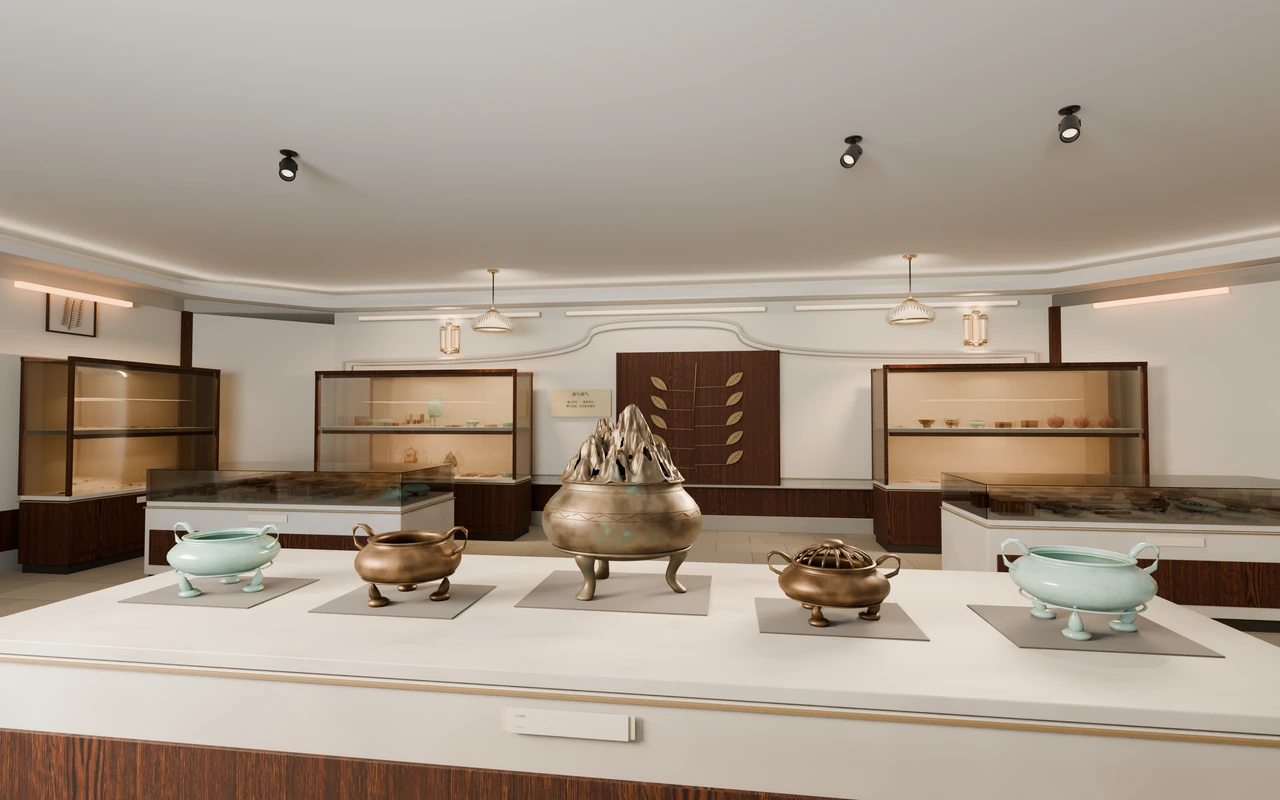
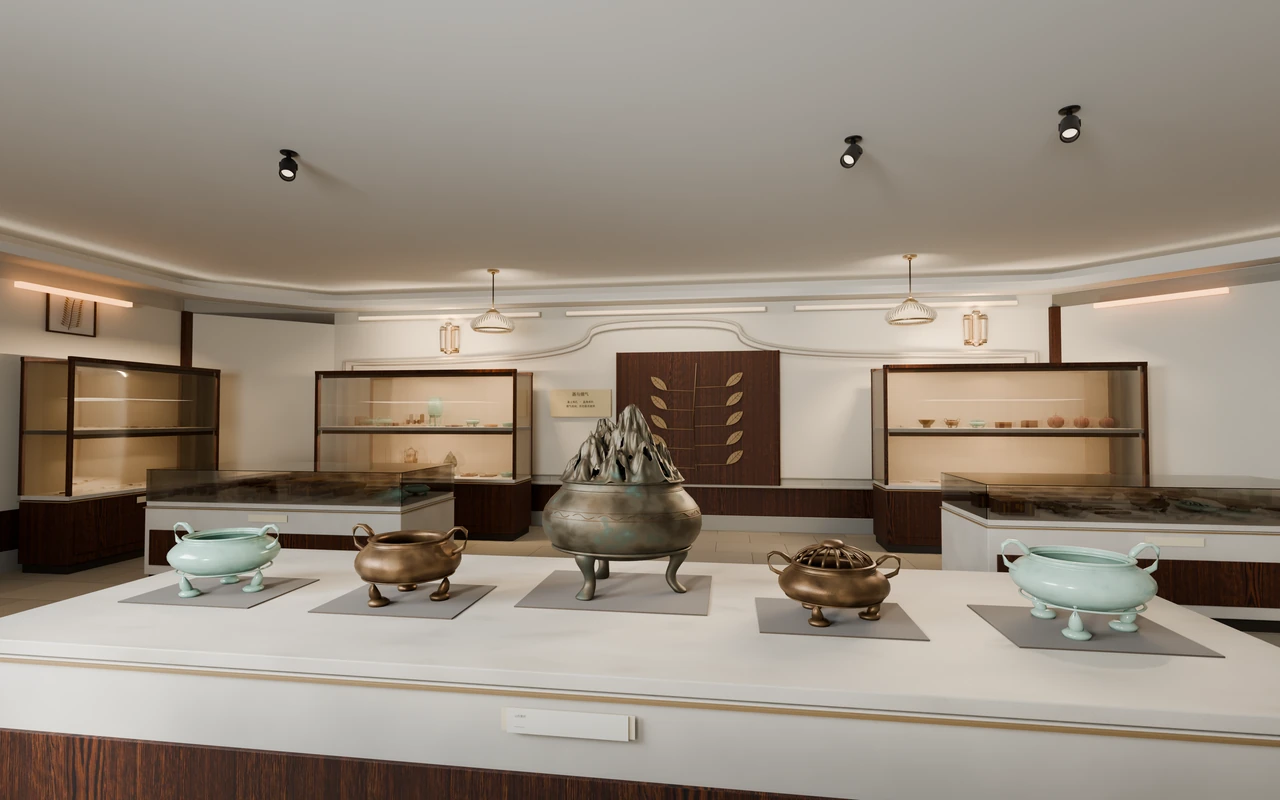
Publish afternoon courtyard lighting and incense seal workshop photography

diff --git a/interior/review.html b/interior/review.html
@@ -2,38 +2,34 @@
 <html lang="zh-CN">
 <head>
 <meta charset="utf-8"><meta name="viewport" content="width=device-width,initial-scale=1">
-<meta name="theme-color" content="#f5f1e9"><title>庭院天光与两厅吊灯 · 莞香入庭</title>
+<meta name="theme-color" content="#f5f1e9"><title>午后庭光与香篆手作 · 莞香入庭</title>
 <style>
 :root{color-scheme:light;--paper:#f5f1e9;--ink:#302c25;--muted:#625c51;--rule:#cec6b8;--accent:#513d2e;--serif:"Songti SC","SimSun","Noto Serif CJK SC",serif}
 *{box-sizing:border-box}body{margin:0;font:16px/1.5 "Microsoft YaHei","PingFang SC",system-ui,sans-serif;background:var(--paper);color:var(--ink)}a{color:inherit;text-underline-offset:.24em}a:focus-visible,button:focus-visible{outline:3px solid #986434;outline-offset:3px}header,main{width:min(1720px,100%);margin:auto;padding-inline:clamp(16px,3.8vw,70px)}header{display:flex;justify-content:space-between;gap:12px;align-items:center;padding-block:17px;border-bottom:1px solid var(--rule)}.brand{font:600 clamp(21px,2.3vw,28px)/1.2 var(--serif);letter-spacing:.12em}header a{font-size:14px}main{padding-bottom:50px}.heading{padding-block:clamp(24px,3vw,48px) 20px}.heading p,p{color:var(--muted);margin:7px 0 0;font-size:clamp(14px,1.1vw,17px)}h1,h2,h3{margin:0;line-height:1.25}h1{font:600 clamp(33px,3.5vw,58px)/1.2 var(--serif);letter-spacing:.04em}h2{font:600 clamp(23px,2.2vw,35px)/1.3 var(--serif)}h3{font-size:17px;font-weight:600}.room{padding:20px 0 32px;border-top:1px solid var(--rule)}.roomhead{display:flex;align-items:baseline;gap:17px;margin-bottom:14px}.roomhead p{margin:0}.pair{display:grid;grid-template-columns:1fr 1fr;gap:clamp(12px,1.3vw,24px)}figure{margin:0;min-width:0}.art{display:block;background:#e6dfd3;border-radius:2px;overflow:hidden}.art img{display:block;width:100%;height:auto;aspect-ratio:8/5}.caption{display:flex;justify-content:space-between;align-items:start;gap:12px;padding-top:11px}.caption p{font-size:14px}.switch{display:inline-flex;border:1px solid #aaa08f;border-radius:3px;white-space:nowrap;overflow:hidden;flex-shrink:0}.switch button{font:inherit;font-size:13px;color:var(--accent);padding:6px 10px;min-height:34px;background:transparent;border:0;cursor:pointer}.switch button[aria-pressed="true"]{background:#453e33;color:white}.lamp-zoom{font-size:13px}.original{font-size:13px;white-space:nowrap;line-height:2}.art:focus-visible{outline-offset:2px}.sr{position:absolute;clip-path:inset(50%);height:1px;width:1px;overflow:hidden}
 @media(max-width:780px){.pair{grid-template-columns:1fr;gap:25px}.roomhead{display:block}.roomhead p{margin-top:4px}.heading{padding-bottom:20px}.room{padding-block:18px 25px}.caption{padding-top:9px}.switch button{min-height:40px}}
 @media(max-width:410px){.caption{flex-wrap:wrap;gap:6px}.switch button{padding-inline:9px}.roomhead{margin-bottom:9px}}
+
+.craft-grid{display:grid;grid-template-columns:minmax(0,.92fr) minmax(0,1fr);gap:clamp(20px,2vw,36px);align-items:start}
+.craft-grid figure:first-child{grid-column:1;grid-row:1/span 2}
+.craft-grid figure:not(:first-child){grid-column:2}
+figure[data-view="seal-table"] .art img{aspect-ratio:4/5}
+.caption .original{display:inline-block;margin-block:4px}
+@media(max-width:780px){.craft-grid{grid-template-columns:1fr;gap:27px}.craft-grid figure:first-child,.craft-grid figure:not(:first-child){grid-column:auto;grid-row:auto}}
 </style>
 </head>
 <body><header><span class="brand">莞香入庭</span><a href="./">现有三维环视</a></header>
-<main><div class="heading"><h1>庭院天光与两厅吊灯</h1><p>每张均可与上版同机位比较，点开可查看 4096 × 2560 原图。两张全景下方另附灯具细节。</p></div>
-<section class="room"><div class="roomhead"><h2>品香主厅</h2></div><div class="pair"><figure data-view="main-wide">
-              <a class="art" href="proof/main-wide.jpg?v=r133" aria-label="查看主展墙与两侧展柜原图"><img src="proof/main-wide-preview.webp?v=r133" width="1280" height="800" alt="品香主厅，主展墙与两侧展柜" data-current="proof/main-wide-preview.webp?v=r133" data-large="proof/main-wide.jpg?v=r133" data-prior="proof/base-main-wide.jpg?v=r133" data-currentalt="品香主厅，主展墙与两侧展柜" data-prioralt="品香主厅，主展墙与两侧展柜（上版）"></a>
-              <figcaption class="caption"><div><h3>主展墙与两侧展柜</h3><p data-note data-current="两盏短吊灯落在柜前，南侧庭院窗的天光照亮展墙。" data-prior="上版主展墙以两盏壁灯和柜内暖光照明。">两盏短吊灯落在柜前，南侧庭院窗的天光照亮展墙。</p>
-              <a class="original" href="proof/main-wide.jpg?v=r133">查看原图</a>　<a class="lamp-zoom" href="proof/cabinet-pendant.jpg?v=r133">看展柜短吊灯</a></div>
-              <div class="switch" role="group" aria-label="主展墙与两侧展柜同机位比较"><button type="button" data-which="current" aria-pressed="true">本次</button><button type="button" data-which="prior" aria-pressed="false">上版</button></div></figcaption>
-              </figure><figure data-view="main-detail">
-              <a class="art" href="proof/main-detail.jpg?v=r133" aria-label="查看山形熏炉原图"><img src="proof/main-detail-preview.webp?v=r133" width="1280" height="800" alt="品香主厅，山形熏炉" data-current="proof/main-detail-preview.webp?v=r133" data-large="proof/main-detail.jpg?v=r133" data-prior="proof/base-main-detail.jpg?v=r133" data-currentalt="品香主厅，山形熏炉" data-prioralt="品香主厅，山形熏炉（上版）"></a>
-              <figcaption class="caption"><div><h3>山形熏炉</h3><p data-note data-current="窗光勾出铜炉的肩线，展灯的暖色留在山脊与透烟孔边缘。" data-prior="上版暖光下的山形炉盖与铜身。">窗光勾出铜炉的肩线，展灯的暖色留在山脊与透烟孔边缘。</p>
-              <a class="original" href="proof/main-detail.jpg?v=r133">查看原图</a></div>
-              <div class="switch" role="group" aria-label="山形熏炉同机位比较"><button type="button" data-which="current" aria-pressed="true">本次</button><button type="button" data-which="prior" aria-pressed="false">上版</button></div></figcaption>
-              </figure></div></section>
-<section class="room"><div class="roomhead"><h2>传香工坊</h2></div><div class="pair"><figure data-view="workshop-wide">
-              <a class="art" href="proof/workshop-wide.jpg?v=r133" aria-label="查看长桌与三盏方灯原图"><img src="proof/workshop-wide-preview.webp?v=r133" width="1280" height="800" alt="传香工坊，长桌与三盏方灯" data-current="proof/workshop-wide-preview.webp?v=r133" data-large="proof/workshop-wide.jpg?v=r133" data-prior="proof/base-workshop-wide.jpg?v=r133" data-currentalt="传香工坊，长桌与三盏方灯" data-prioralt="传香工坊，长桌与三盏方灯（上版）"></a>
-              <figcaption class="caption"><div><h3>长桌与三盏方灯</h3><p data-note data-current="中央方灯略低，两端小方灯与桌面上的操作位对齐。" data-prior="上版操作桌上方有一盏双层方灯。">中央方灯略低，两端小方灯与桌面上的操作位对齐。</p>
-              <a class="original" href="proof/workshop-wide.jpg?v=r133">查看原图</a>　<a class="lamp-zoom" href="proof/workshop-trio.jpg?v=r133">看三盏方灯</a></div>
-              <div class="switch" role="group" aria-label="长桌与三盏方灯同机位比较"><button type="button" data-which="current" aria-pressed="true">本次</button><button type="button" data-which="prior" aria-pressed="false">上版</button></div></figcaption>
-              </figure><figure data-view="workshop-detail">
-              <a class="art" href="proof/workshop-detail.jpg?v=r133" aria-label="查看工序工具柜原图"><img src="proof/workshop-detail-preview.webp?v=r133" width="1280" height="800" alt="传香工坊，工序工具柜" data-current="proof/workshop-detail-preview.webp?v=r133" data-large="proof/workshop-detail.jpg?v=r133" data-prior="proof/base-workshop-detail.jpg?v=r133" data-currentalt="传香工坊，工序工具柜" data-prioralt="传香工坊，工序工具柜（上版）"></a>
-              <figcaption class="caption"><div><h3>工序工具柜</h3><p data-note data-current="从庭院门进入的侧光与层板暖光照在木托和铜模上。" data-prior="上版暖光下的工序柜。">从庭院门进入的侧光与层板暖光照在木托和铜模上。</p>
-              <a class="original" href="proof/workshop-detail.jpg?v=r133">查看原图</a></div>
-              <div class="switch" role="group" aria-label="工序工具柜同机位比较"><button type="button" data-which="current" aria-pressed="true">本次</button><button type="button" data-which="prior" aria-pressed="false">上版</button></div></figcaption>
-              </figure></div></section>
+<main><div class="heading"><h1>午后庭光与香篆手作</h1><p>点开照片可看原图。四个原有机位支持上版对照，桌边竖幅为本次新增视角。</p></div>
+<section class="room"><div class="roomhead"><h2>传香工坊</h2></div><div class="craft-grid"><figure data-view="seal-table"><a class="art" href="proof/seal-table.jpg?v=r134" aria-label="查看香篆脱模之后原图">
+        <img width="1040" height="1300" src="proof/seal-table-preview.webp?v=r134" alt="香篆脱模之后" data-current="proof/seal-table-preview.webp?v=r134" data-large="proof/seal-table.jpg?v=r134" data-currentalt="香篆脱模之后"></a>
+        <figcaption class="caption"><div><h3>香篆脱模之后</h3><p data-note data-current="铜模已提起，灰面留下一道连续的四瓣香篆。香匙靠在罐口，模边还有少量落粉。">铜模已提起，灰面留下一道连续的四瓣香篆。香匙靠在罐口，模边还有少量落粉。</p><a class="original" href="proof/seal-table.jpg?v=r134">查看原图</a>　<a class="original tool-detail" href="proof/seal-detail.jpg?v=r134">看香篆与铜模细节</a></div></figcaption></figure><figure data-view="workshop-wide"><a class="art" href="proof/workshop-wide.jpg?v=r134" aria-label="查看八席手作长桌原图">
+        <img width="1280" height="800" src="proof/workshop-wide-preview.webp?v=r134" alt="八席手作长桌" data-current="proof/workshop-wide-preview.webp?v=r134" data-large="proof/workshop-wide.jpg?v=r134" data-currentalt="八席手作长桌" data-prior="proof/base-workshop-wide.jpg?v=r134" data-prioralt="上版八席手作长桌"></a>
+        <figcaption class="caption"><div><h3>八席手作长桌</h3><p data-note data-current="庭院侧光穿过工坊门洞，沿木桌依次照到脱模、理灰和备料三处。" data-prior="上版的日间工坊与八席操作桌。">庭院侧光穿过工坊门洞，沿木桌依次照到脱模、理灰和备料三处。</p><a class="original" href="proof/workshop-wide.jpg?v=r134">查看原图</a></div><div class="switch" role="group" aria-label="八席手作长桌同机位比较"><button type="button" data-which="current" aria-pressed="true">本次</button><button type="button" data-which="prior" aria-pressed="false">上版</button></div></figcaption></figure><figure data-view="workshop-detail"><a class="art" href="proof/workshop-detail.jpg?v=r134" aria-label="查看手作工具柜原图">
+        <img width="1280" height="800" src="proof/workshop-detail-preview.webp?v=r134" alt="手作工具柜" data-current="proof/workshop-detail-preview.webp?v=r134" data-large="proof/workshop-detail.jpg?v=r134" data-currentalt="手作工具柜" data-prior="proof/base-workshop-detail.jpg?v=r134" data-prioralt="上版手作工具柜"></a>
+        <figcaption class="caption"><div><h3>手作工具柜</h3><p data-note data-current="层板下的光落在木托和金属工具上，柜内保留了较暗的背衬。" data-prior="上版工序柜的层板与工具。">层板下的光落在木托和金属工具上，柜内保留了较暗的背衬。</p><a class="original" href="proof/workshop-detail.jpg?v=r134">查看原图</a></div><div class="switch" role="group" aria-label="手作工具柜同机位比较"><button type="button" data-which="current" aria-pressed="true">本次</button><button type="button" data-which="prior" aria-pressed="false">上版</button></div></figcaption></figure></div></section><section class="room"><div class="roomhead"><h2>品香主厅</h2></div><div class="pair"><figure data-view="main-wide"><a class="art" href="proof/main-wide.jpg?v=r134" aria-label="查看品香主厅原图">
+        <img width="1280" height="800" src="proof/main-wide-preview.webp?v=r134" alt="品香主厅" data-current="proof/main-wide-preview.webp?v=r134" data-large="proof/main-wide.jpg?v=r134" data-currentalt="品香主厅" data-prior="proof/base-main-wide.jpg?v=r134" data-prioralt="上版品香主厅"></a>
+        <figcaption class="caption"><div><h3>品香主厅</h3><p data-note data-current="庭院窗光从一侧照亮中央展台，两侧展柜的层板与后墙依次受光。" data-prior="上版的庭院天光、中央展台与两侧吊灯。">庭院窗光从一侧照亮中央展台，两侧展柜的层板与后墙依次受光。</p><a class="original" href="proof/main-wide.jpg?v=r134">查看原图</a></div><div class="switch" role="group" aria-label="品香主厅同机位比较"><button type="button" data-which="current" aria-pressed="true">本次</button><button type="button" data-which="prior" aria-pressed="false">上版</button></div></figcaption></figure><figure data-view="main-detail"><a class="art" href="proof/main-detail.jpg?v=r134" aria-label="查看山形熏炉原图">
+        <img width="1280" height="800" src="proof/main-detail-preview.webp?v=r134" alt="山形熏炉" data-current="proof/main-detail-preview.webp?v=r134" data-large="proof/main-detail.jpg?v=r134" data-currentalt="山形熏炉" data-prior="proof/base-main-detail.jpg?v=r134" data-prioralt="上版山形熏炉"></a>
+        <figcaption class="caption"><div><h3>山形熏炉</h3><p data-note data-current="沿炉盖的山脊看向透烟孔，铜身上的暖金反射过渡到青褐色。" data-prior="上版日间光线下的山形熏炉。">沿炉盖的山脊看向透烟孔，铜身上的暖金反射过渡到青褐色。</p><a class="original" href="proof/main-detail.jpg?v=r134">查看原图</a></div><div class="switch" role="group" aria-label="山形熏炉同机位比较"><button type="button" data-which="current" aria-pressed="true">本次</button><button type="button" data-which="prior" aria-pressed="false">上版</button></div></figcaption></figure></div></section>
 </main>
 <script>
 for(const group of document.querySelectorAll('.switch')){

diff --git a/index.html b/index.html
@@ -1,6 +1,6 @@
 <!doctype html><html lang="zh-CN"><meta charset="utf-8"><meta name="viewport" content="width=device-width,initial-scale=1"><title>莞香入庭 · 莞香文化展馆设计</title>
 <style>:root{color-scheme:light;--ink:#29382e;--paper:#ebe5d8;--line:#c9c4b4}*{box-sizing:border-box}body{margin:0;background:var(--paper);color:var(--ink);font-family:"Microsoft YaHei",sans-serif;line-height:1.65}header,main,footer{max-width:1320px;margin:auto;padding:28px}header{display:flex;justify-content:space-between;gap:24px;align-items:center;border-bottom:1px solid var(--line)}h1{font-family:SimSun,serif;font-size:32px;font-weight:400;margin:0}p{margin:8px 0}.eyebrow{font-size:12px;letter-spacing:.1em}nav{display:flex;flex-wrap:wrap;gap:8px}a{color:inherit}nav a,.button{display:inline-block;padding:10px 15px;border:1px solid #8c9789;text-decoration:none;border-radius:3px;background:#f7f3e9}a:focus-visible,button:focus-visible{outline:3px solid #8a6b45;outline-offset:3px}h2{font-size:21px;font-weight:500;margin:0 0 10px}section{padding:28px 0;border-bottom:1px solid var(--line)}.intro{max-width:850px}.muted{color:#667063;font-size:14px}.board{width:100%;display:block;background:#e7e1d3}.image-link{display:block}.image-link:hover{outline:1px solid #87977e}.detail{display:grid;grid-template-columns:1.25fr 1fr;gap:28px;align-items:start}.detail img{width:100%;display:block}.detail .flow{max-width:500px;margin:auto}.legend{display:flex;gap:18px;flex-wrap:wrap;font-size:14px}.legend span:before{content:"";display:inline-block;width:24px;border-top:2px dashed var(--c);margin:0 7px 4px 0}.table-wrap{overflow-x:auto}table{border-collapse:collapse;width:100%;font-size:14px}td,th{padding:8px 12px;border-bottom:1px solid var(--line);text-align:left}th{font-weight:500}.assets{display:grid;grid-template-columns:1fr 1fr;gap:20px}.asset{border:1px solid var(--line);padding:16px}.transparent{background-color:#fff;background-image:linear-gradient(45deg,#e1e3dd 25%,transparent 25%),linear-gradient(-45deg,#e1e3dd 25%,transparent 25%),linear-gradient(45deg,transparent 75%,#e1e3dd 75%),linear-gradient(-45deg,transparent 75%,#e1e3dd 75%);background-size:24px 24px;background-position:0 0,0 12px,12px -12px,-12px 0;height:210px;display:flex;align-items:center;justify-content:center}.transparent img{max-width:100%;max-height:210px;object-fit:contain}.downloads{display:flex;flex-wrap:wrap;gap:8px;margin-top:14px}footer{font-size:13px;color:#667063}button{font:inherit;padding:8px 12px;cursor:pointer;border:1px solid #8c9789;background:#f7f3e9;color:inherit}.dark .transparent{background:#343b36}@media(max-width:650px){header{display:block;padding:22px 16px}header nav{margin-top:18px}main,footer{padding:16px}h1{font-size:27px}.detail,.assets{grid-template-columns:1fr}.detail{gap:20px}nav a{font-size:14px;padding:8px 12px}section{padding:22px 0}.transparent{height:170px}.transparent img{max-height:170px}}.photographs{display:grid;grid-template-columns:1fr 1fr;gap:24px}.photographs figure{margin:0;min-width:0}.photographs figure:first-child{grid-column:1/-1}.photographs img{width:100%;height:auto;display:block}.photographs figcaption{margin:8px 0 0}.photographs strong{font-weight:500}.photographs p{font-size:14px;margin:2px 0;color:#465147}@media(max-width:650px){.photographs{grid-template-columns:1fr;gap:22px}}.rendergrid{display:grid;grid-template-columns:repeat(2,minmax(0,1fr));gap:22px;margin-top:16px}.rendergrid figure{margin:0;min-width:0}.rendergrid img{display:block;width:100%;height:auto;max-height:500px;object-fit:contain;object-position:left bottom}.rendergrid figcaption{padding:7px 0}.rendergrid h3{font-weight:500;font-size:18px;margin:0}.rendergrid span,.rendlinks a{font-size:13px}.rendlinks{display:flex;gap:15px}@media(max-width:650px){.rendergrid{grid-template-columns:1fr}}#section-study{scroll-margin:20px}#section-study h2{font:normal clamp(24px,3vw,38px)/1.3 SimSun,serif;margin:16px 0}#section-study p{line-height:1.7}.study-zoom{display:block}.study-zoom img{display:block;width:100%;height:auto}.study-controls,.study-links{display:flex;flex-wrap:wrap;gap:10px 22px;align-items:center}.study-controls button{color:#304236;background:transparent;border:1px solid #909989;padding:7px 15px;font:inherit;cursor:pointer}.study-controls button[aria-pressed=true]{color:#fff;background:#34453a;border-color:#34453a}.study-links a{color:#314b3d;text-underline-offset:3px}#section-study{scroll-margin:20px}#section-study h2{font:normal clamp(24px,3vw,38px)/1.3 SimSun,serif;margin:16px 0}#section-study p{line-height:1.7}.study-zoom{display:block}.study-zoom img{display:block;width:100%;height:auto}.study-roll{margin:20px 0 26px;background:#f8f7f1;border:1px solid #c9c4b4;padding:8px}.study-controls,.study-links{display:flex;flex-wrap:wrap;gap:10px 22px;align-items:center}.study-controls button{color:#304236;background:transparent;border:1px solid #909989;padding:7px 15px;font:inherit;cursor:pointer}.study-controls button[aria-pressed=true]{color:#fff;background:#34453a;border-color:#34453a}.study-links a{color:#314b3d;text-underline-offset:3px}</style>
-<body data-release="M140-r124"><header><div><h1>莞香入庭</h1><p>莞香文化展馆设计</p></div><nav aria-label="目录"><a href="interior/">室内三维导览</a><a href="interior/review.html">日间灯光审核图</a><a href="#renders">展板效果图</a><a href="#photos">已审视角</a><a href="#board">完整展板</a><a href="downloads/guanxiang-board-r124-print.pdf">展板 PDF</a><a href="#section-study">剖面线稿小样</a></nav></header><main>
+<body data-release="M140-r124"><header><div><h1>莞香入庭</h1><p>莞香文化展馆设计</p></div><nav aria-label="目录"><a href="interior/">室内三维导览</a><a href="interior/review.html">午后庭光与香篆手作</a><a href="#renders">展板效果图</a><a href="#photos">已审视角</a><a href="#board">完整展板</a><a href="downloads/guanxiang-board-r124-print.pdf">展板 PDF</a><a href="#section-study">剖面线稿小样</a></nav></header><main>
 <section id="board"><h2>完整展板</h2>
 <p class="muted">建筑剖面线稿与远林已合入“历史文化、概念提取、室内立面与剖面”三个板块。点击展板可放大查看。</p>
 <a class="image-link" href="assets/r124-board-web.jpg"><img id="hero" class="board" src="assets/r124-board-web.jpg" alt="莞香入庭完整展板，建筑剖面线稿与远林叠入历史文化、概念提取和室内立面与剖面区域"></a>
